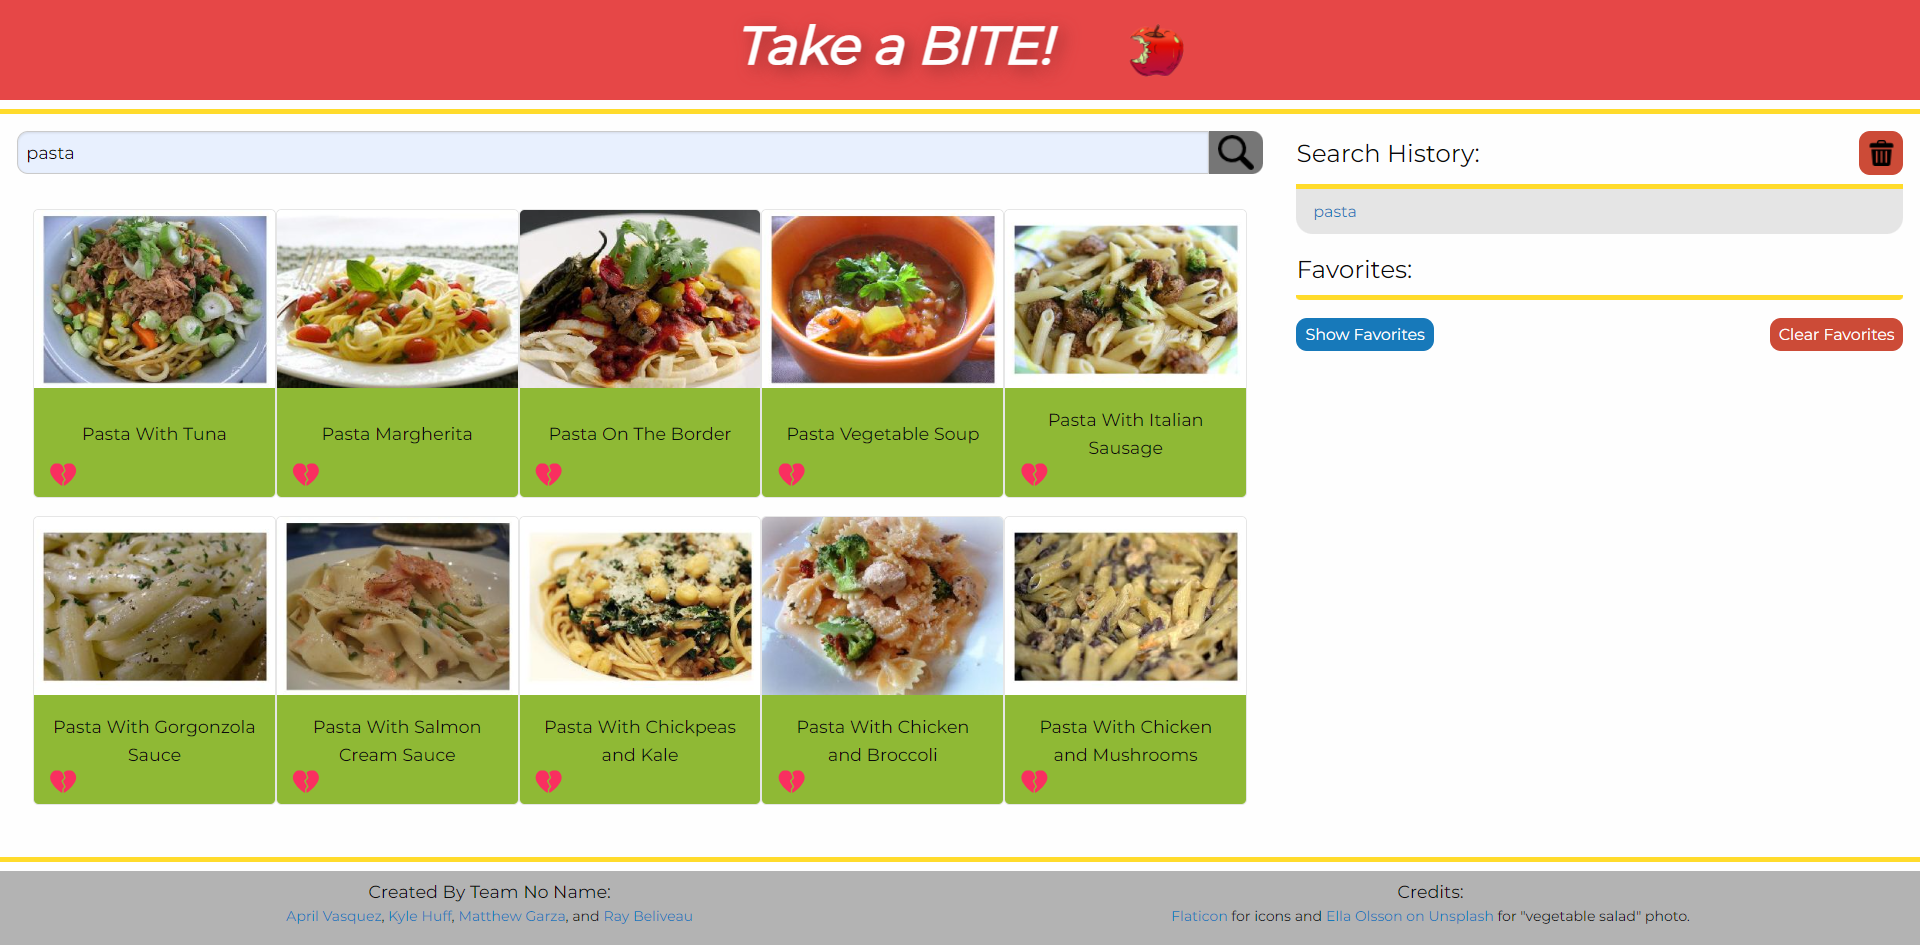
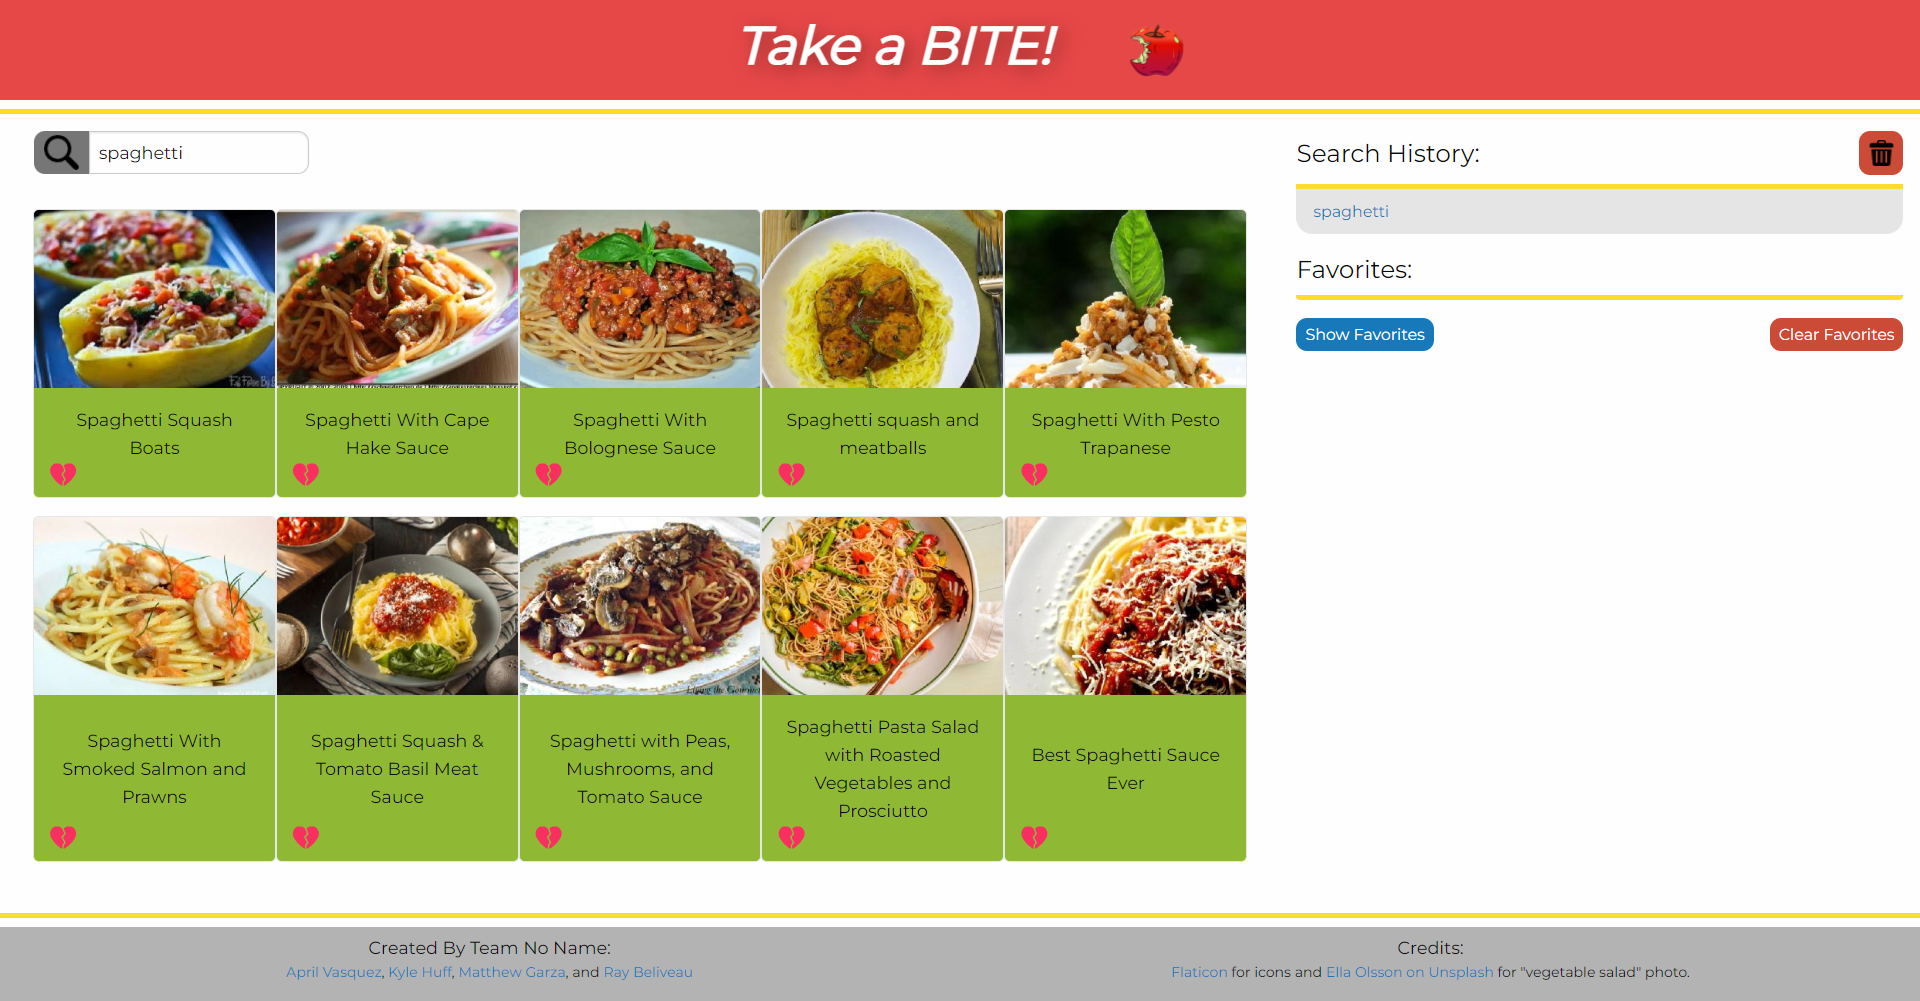
Update preview screenshots

diff --git a/assets/css/style.css b/assets/css/style.css
@@ -61,6 +61,10 @@
 
 /* Main */
 /* Search Bar */
+.input-group {
+  padding-left: 1rem;
+}
+
 .input-group>:first-child,
 .input-group>:first-child.input-group-button>* {
   border-radius: 10px 0 0 10px;
